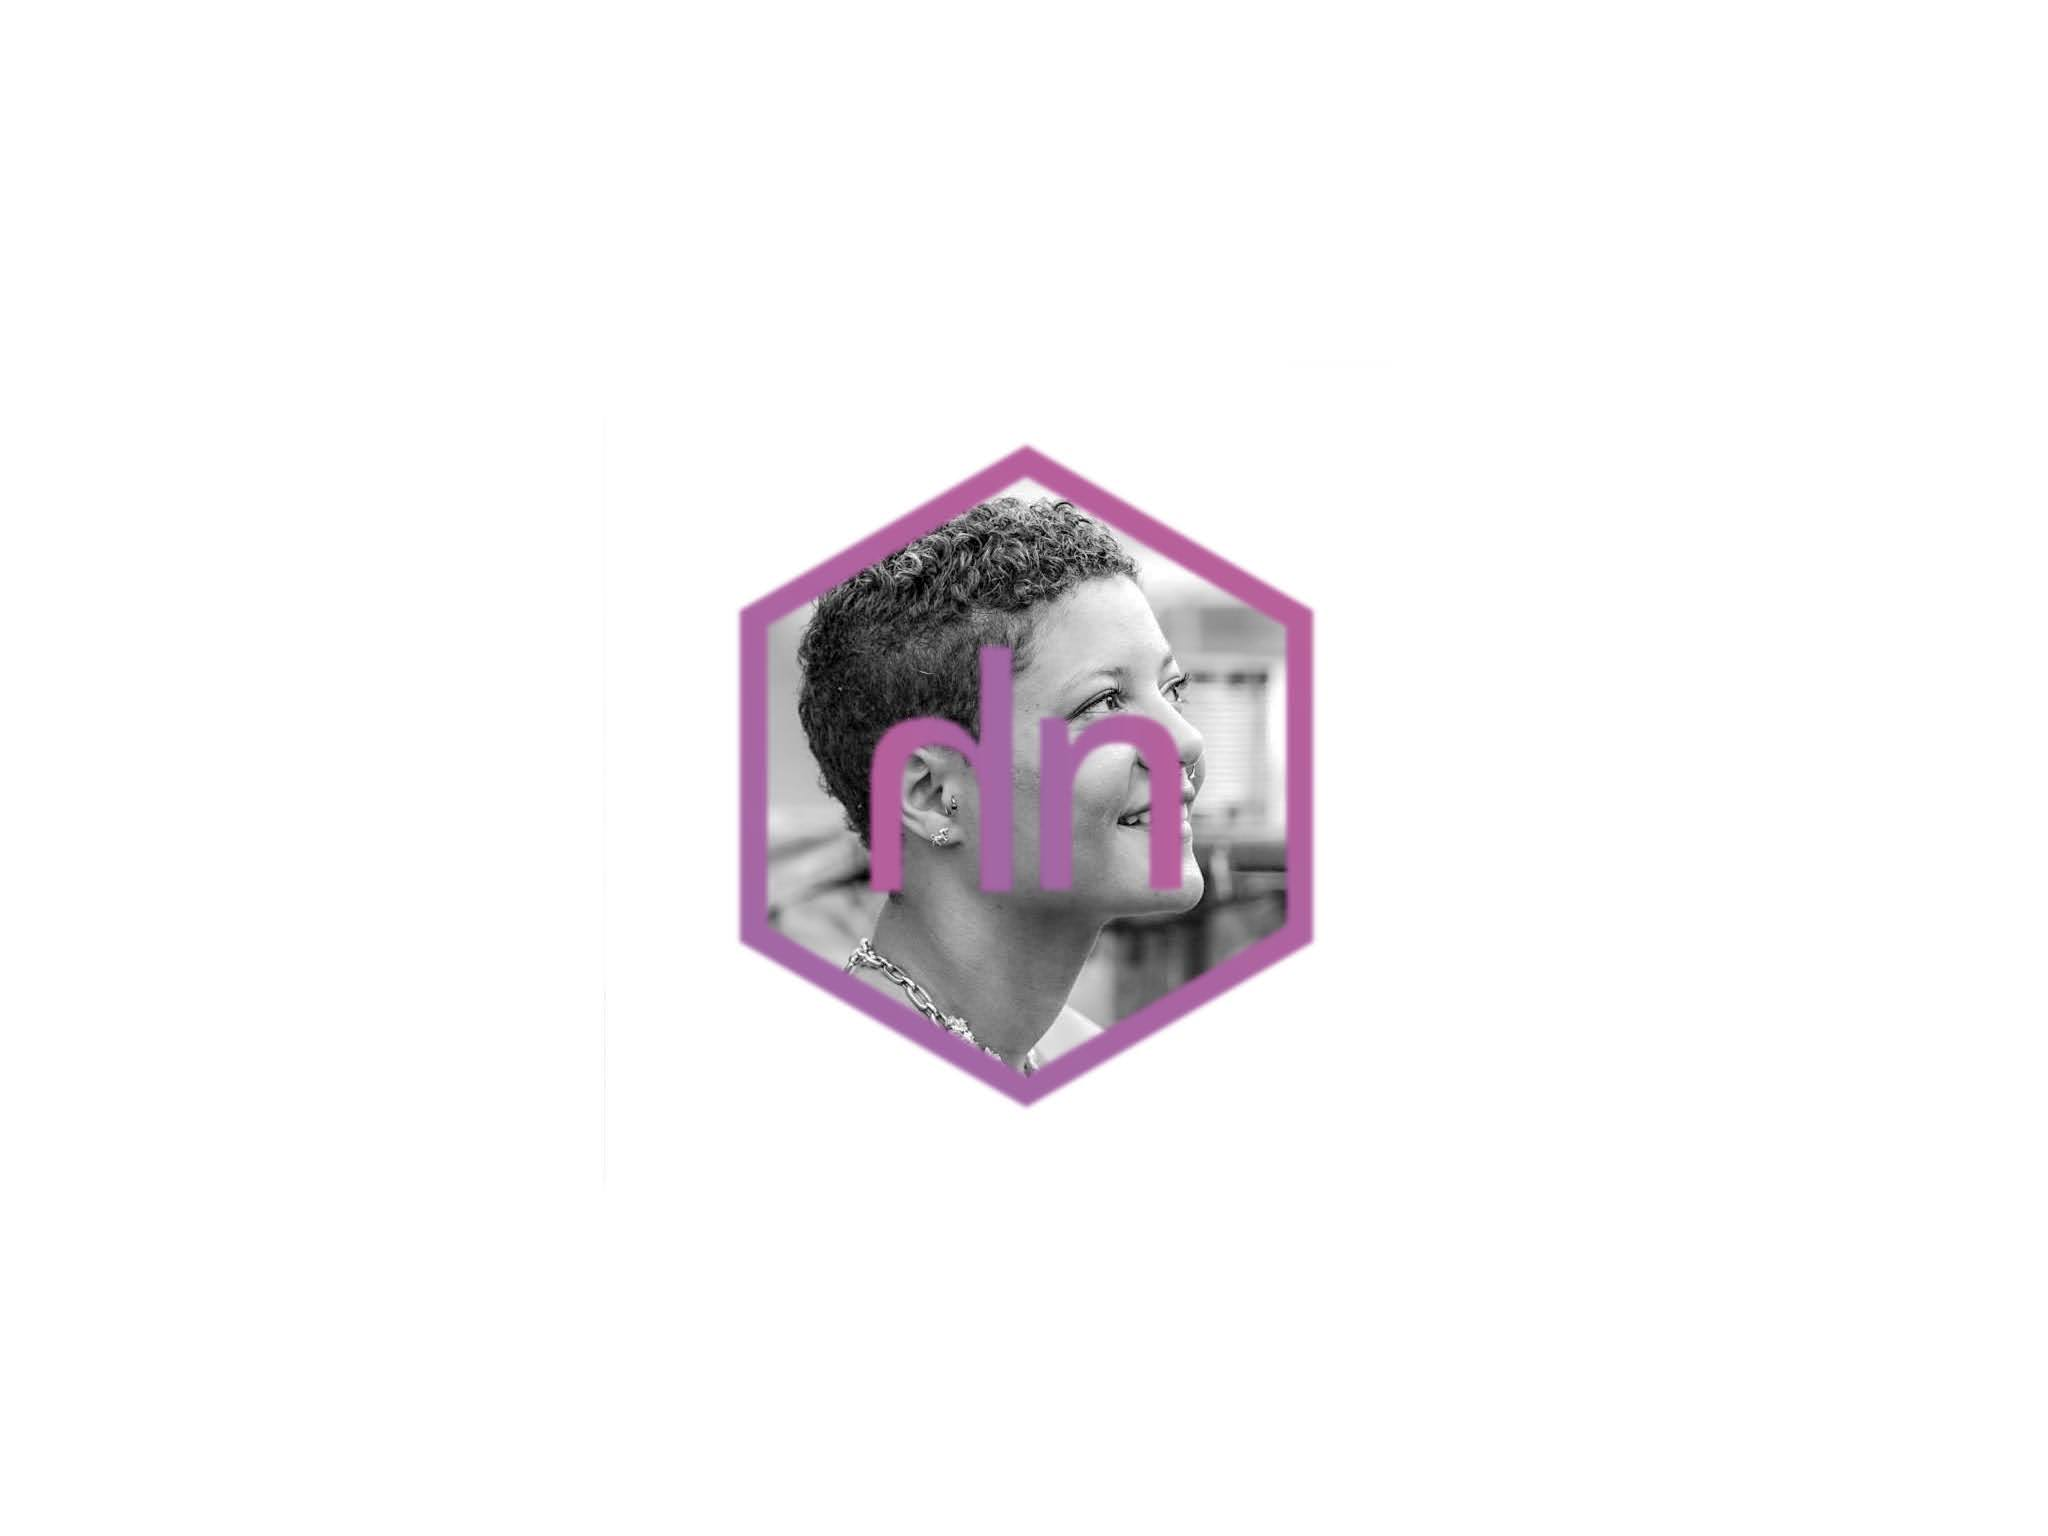
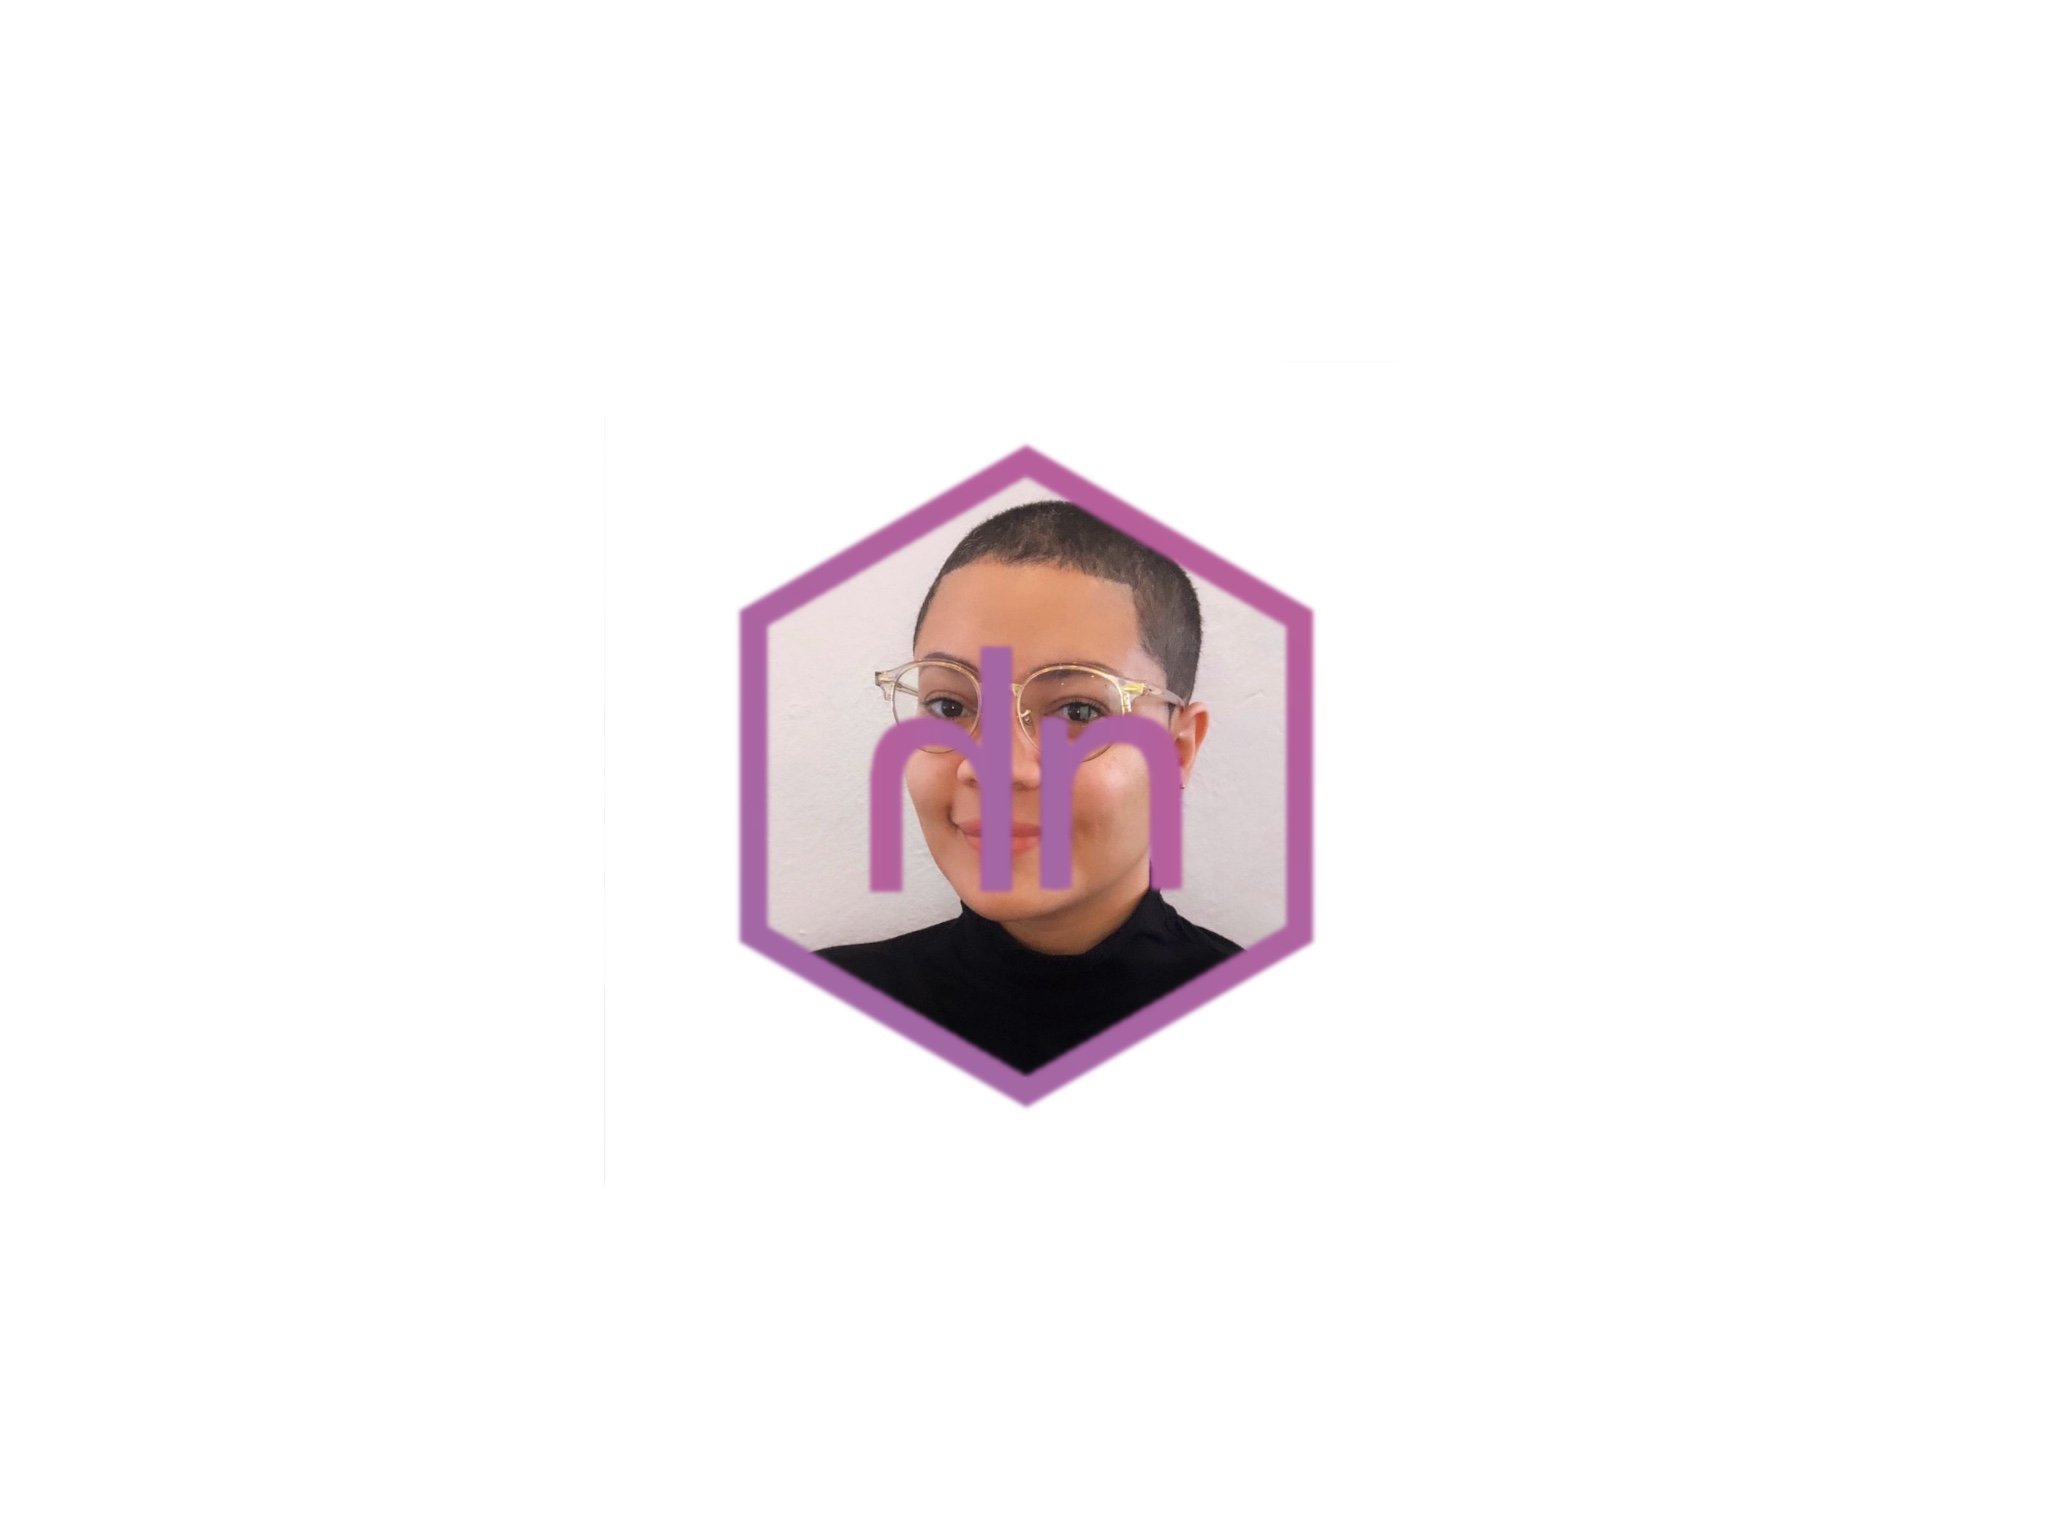
New year new Hana

Changed region(s): [[0.375, 0.3125, 0.6562, 0.7188]]

diff --git a/index.html b/index.html
@@ -1,12 +1,12 @@
 <!DOCTYPE html>
 <html lang="en-us">
     <head>
-	<meta name="generator" content="Hugo 0.81.0" />
+	<meta name="generator" content="Hugo 0.121.1">
         <meta charset="UTF-8">
 <meta http-equiv="X-UA-Compatible" content="ie=edge">
 <title>Hana Nagel</title>
 <meta name="viewport" content="width=device-width, initial-scale=1.0">
-<meta name="theme-color" content="#5A54AF">
+<meta name="theme-color" content="#A3609B">
 <meta name="description" content="Website of Hana Nagel, UX Researcher/Designer">
 <meta property="og:description" content="Website of Hana Nagel, UX Researcher/Designer">
 <meta name="twitter:description" content="Website of Hana Nagel, UX Researcher/Designer">
@@ -31,7 +31,7 @@
         <img class="logo" src="https://hana-nagel.github.io/img/logo.png" alt="Hana Nagel">
     </a>
     <div class="sub-navigation">
-        <a href="#" class="main-navigation-link" id="about" data-scroll-goto="0">About</a>
+        
         
         
 
@@ -47,7 +47,7 @@
     <div class="hero">
         <div class="hero-left">
             <img src="https://hana-nagel.github.io/img/avatar.jpg" style="max-width: 50%; border-radius: 50%; ">
-            <h2 class="subtitle">UX Researcher</h2>
+            <h2 class="subtitle">UX Research Leader</h2>
             <div class="icons">
                 
                 <a href="mailto:nagel.hana@gmail.com">
@@ -130,11 +130,11 @@
         </div>
         <div class="hero-right">
             
-                <p>I am a <strong>human-centered researcher</strong>, specializing in <strong>artificial intelligence</strong>, <strong>agile enterprise</strong> and <strong>design strategy</strong>. An advocate of <strong>evidence-based design</strong>, I focus on transforming the user experience through a holistic systems approach to research, testing, and prototyping, to <strong>deliver measurable business results</strong>.</p>
+                <p>I am a <strong>human-centered research leader and information system designer</strong>, specializing in <strong>artificial intelligence</strong>, <strong>agile enterprise</strong> and <strong>design strategy</strong>. An advocate of <strong>evidence-based design</strong>, I focus on transforming the user experience through a holistic systems approach to research, testing, and prototyping, to <strong>deliver measurable business results</strong>.</p>
             
-                <p>With experience ranging from non-profits to start-ups to enterprise, my work is connected by a commitment to using a research-driven approach to solve problems for people. In my current role as a UX Researcher with ServiceNow, I work alongside designers, machine learning scientists and product managers, to identify the right problems to solve with AI and ultimately deliver AI solutions that augment human decisions while delivering positive systemic impact.</p>
+                <p>With experience ranging from AI startups to blue-chip enterprise to federal civic digital redesigns, my work is connected by a commitment to using a research-driven approach to solve problems for people. I am currently looking for new opportunities to work alongside designers, machine learning scientists, and product managers, to identify the right problems to solve with AI and ultimately deliver AI solutions that augment human decisions while delivering positive systemic impact.</p>
             
-                <p>I also combine my love of design and interiors through my vintage store <a href="https://www.instagram.com/wildfang_home/">Wildfang Home</a>. One of the things I am most proud of is raising over $25,000 USD for various BLM organizations, as well as a feature in <a href="https://www.architecturaldigest.com/story/get-to-know-wildfang-home">Architecture Digest</a>.</p>
+                <p>I also combine my love of design and interiors through my vintage store <a href="https://www.instagram.com/wildfang_home/">Wildfang Home</a>. One of the things I am most proud of is raising over $25,000 USD for various BLM organizations, as well as a feature in <a href="https://www.architecturaldigest.com/story/get-to-know-wildfang-home">Architectural Digest</a>.</p>
             
         </div>
     </div>

diff --git a/css/final.css b/css/final.css
@@ -175,7 +175,7 @@ section {
 
 .subtitle {
   font-size: 28px;
-  color: #FFD700;
+  color: #A3609B;
   font-weight: 300;
 }
 
@@ -201,7 +201,7 @@ section {
 }
 
 .hero-right p a {
-  color: #FCBF00;
+  color: #CB9CC6;
   text-decoration: underline;
 }
 
@@ -219,12 +219,12 @@ section {
   /* Rectangle 3: */
   display: inline-block;
   margin-top: 20px;
-  background: #FFD700;
+  background: #A3609B;
   /* Download Resume: */
   font-family: Roboto;
   font-size: 15px;
   /*padding: 15px 50px;*/
-  color: #574C00;
+  color: #FFFFFF;
   padding: 18px 0;
   width: 296px;
   text-align: center;
@@ -288,7 +288,7 @@ section {
 .process-item h3 {
   /* Discover: */
   font-size: 28px;
-  color: #FFD700;
+  color: #A3609B;
   letter-spacing: 0;
 }
 
@@ -340,7 +340,7 @@ section {
   border: solid 2px #E1E1E1;
   padding: 18px 0;
   text-align: center;
-  color: #FCBF00;
+  color: #CB9CC6;
   font-weight: 500;
   -webkit-transition: 0.2s ease-out;
   transition: 0.2s ease-out;
@@ -391,7 +391,7 @@ section {
 
 .results-content hr {
   width: 30px;
-  border: 3px solid #FFD700;
+  border: 3px solid #A3609B;
 }
 
 .main-case-study img {
@@ -408,7 +408,7 @@ section {
   font-family: Roboto;
   font-weight: bold;
   font-size: 22px;
-  color: #FFD700;
+  color: #A3609B;
   letter-spacing: 0;
 }
 
@@ -505,7 +505,7 @@ section {
 }
 
 .content-case-study a {
-  color: #FCBF00;
+  color: #CB9CC6;
   text-decoration: underline;
 }
 
@@ -593,7 +593,7 @@ section {
 }
 
 .active {
-  color: #FCBF00 !important;
+  color: #CB9CC6 !important;
   transition: 0.2s ease-in-out;
-  border-bottom: 3px solid #FCBF00;
+  border-bottom: 3px solid #CB9CC6;
 }

diff --git a/cope/index.html b/cope/index.html
@@ -5,7 +5,7 @@
 <meta http-equiv="X-UA-Compatible" content="ie=edge">
 <title>Cope | Alexis Collado</title>
 <meta name="viewport" content="width=device-width, initial-scale=1.0">
-<meta name="theme-color" content="#5A54AF">
+<meta name="theme-color" content="#A3609B">
 <meta name="description" content="I set a direction for the branding and identity of the product and crafted a functioning prototype ready for usability testing and development.">
 <meta property="og:description" content="I set a direction for the branding and identity of the product and crafted a functioning prototype ready for usability testing and development.">
 <meta name="twitter:description" content="I set a direction for the branding and identity of the product and crafted a functioning prototype ready for usability testing and development.">

diff --git a/360pro/index.html b/360pro/index.html
@@ -5,7 +5,7 @@
 <meta http-equiv="X-UA-Compatible" content="ie=edge">
 <title>360 Pro | Alexis Collado</title>
 <meta name="viewport" content="width=device-width, initial-scale=1.0">
-<meta name="theme-color" content="#5A54AF">
+<meta name="theme-color" content="#A3609B">
 <meta name="description" content="We designed for an experience that cuts testing time significantly, enables group testing, and automates athlete leaderboards.">
 <meta property="og:description" content="We designed for an experience that cuts testing time significantly, enables group testing, and automates athlete leaderboards.">
 <meta name="twitter:description" content="We designed for an experience that cuts testing time significantly, enables group testing, and automates athlete leaderboards.">

diff --git a/tedx/index.html b/tedx/index.html
@@ -5,7 +5,7 @@
 <meta http-equiv="X-UA-Compatible" content="ie=edge">
 <title>TEDxADMU | Alexis Collado</title>
 <meta name="viewport" content="width=device-width, initial-scale=1.0">
-<meta name="theme-color" content="#5A54AF">
+<meta name="theme-color" content="#A3609B">
 <meta name="description" content="I strategized, designed, and developed a simple landing page for TEDxADMU to set their application conversions to 66.8%.">
 <meta property="og:description" content="I strategized, designed, and developed a simple landing page for TEDxADMU to set their application conversions to 66.8%.">
 <meta name="twitter:description" content="I strategized, designed, and developed a simple landing page for TEDxADMU to set their application conversions to 66.8%.">
